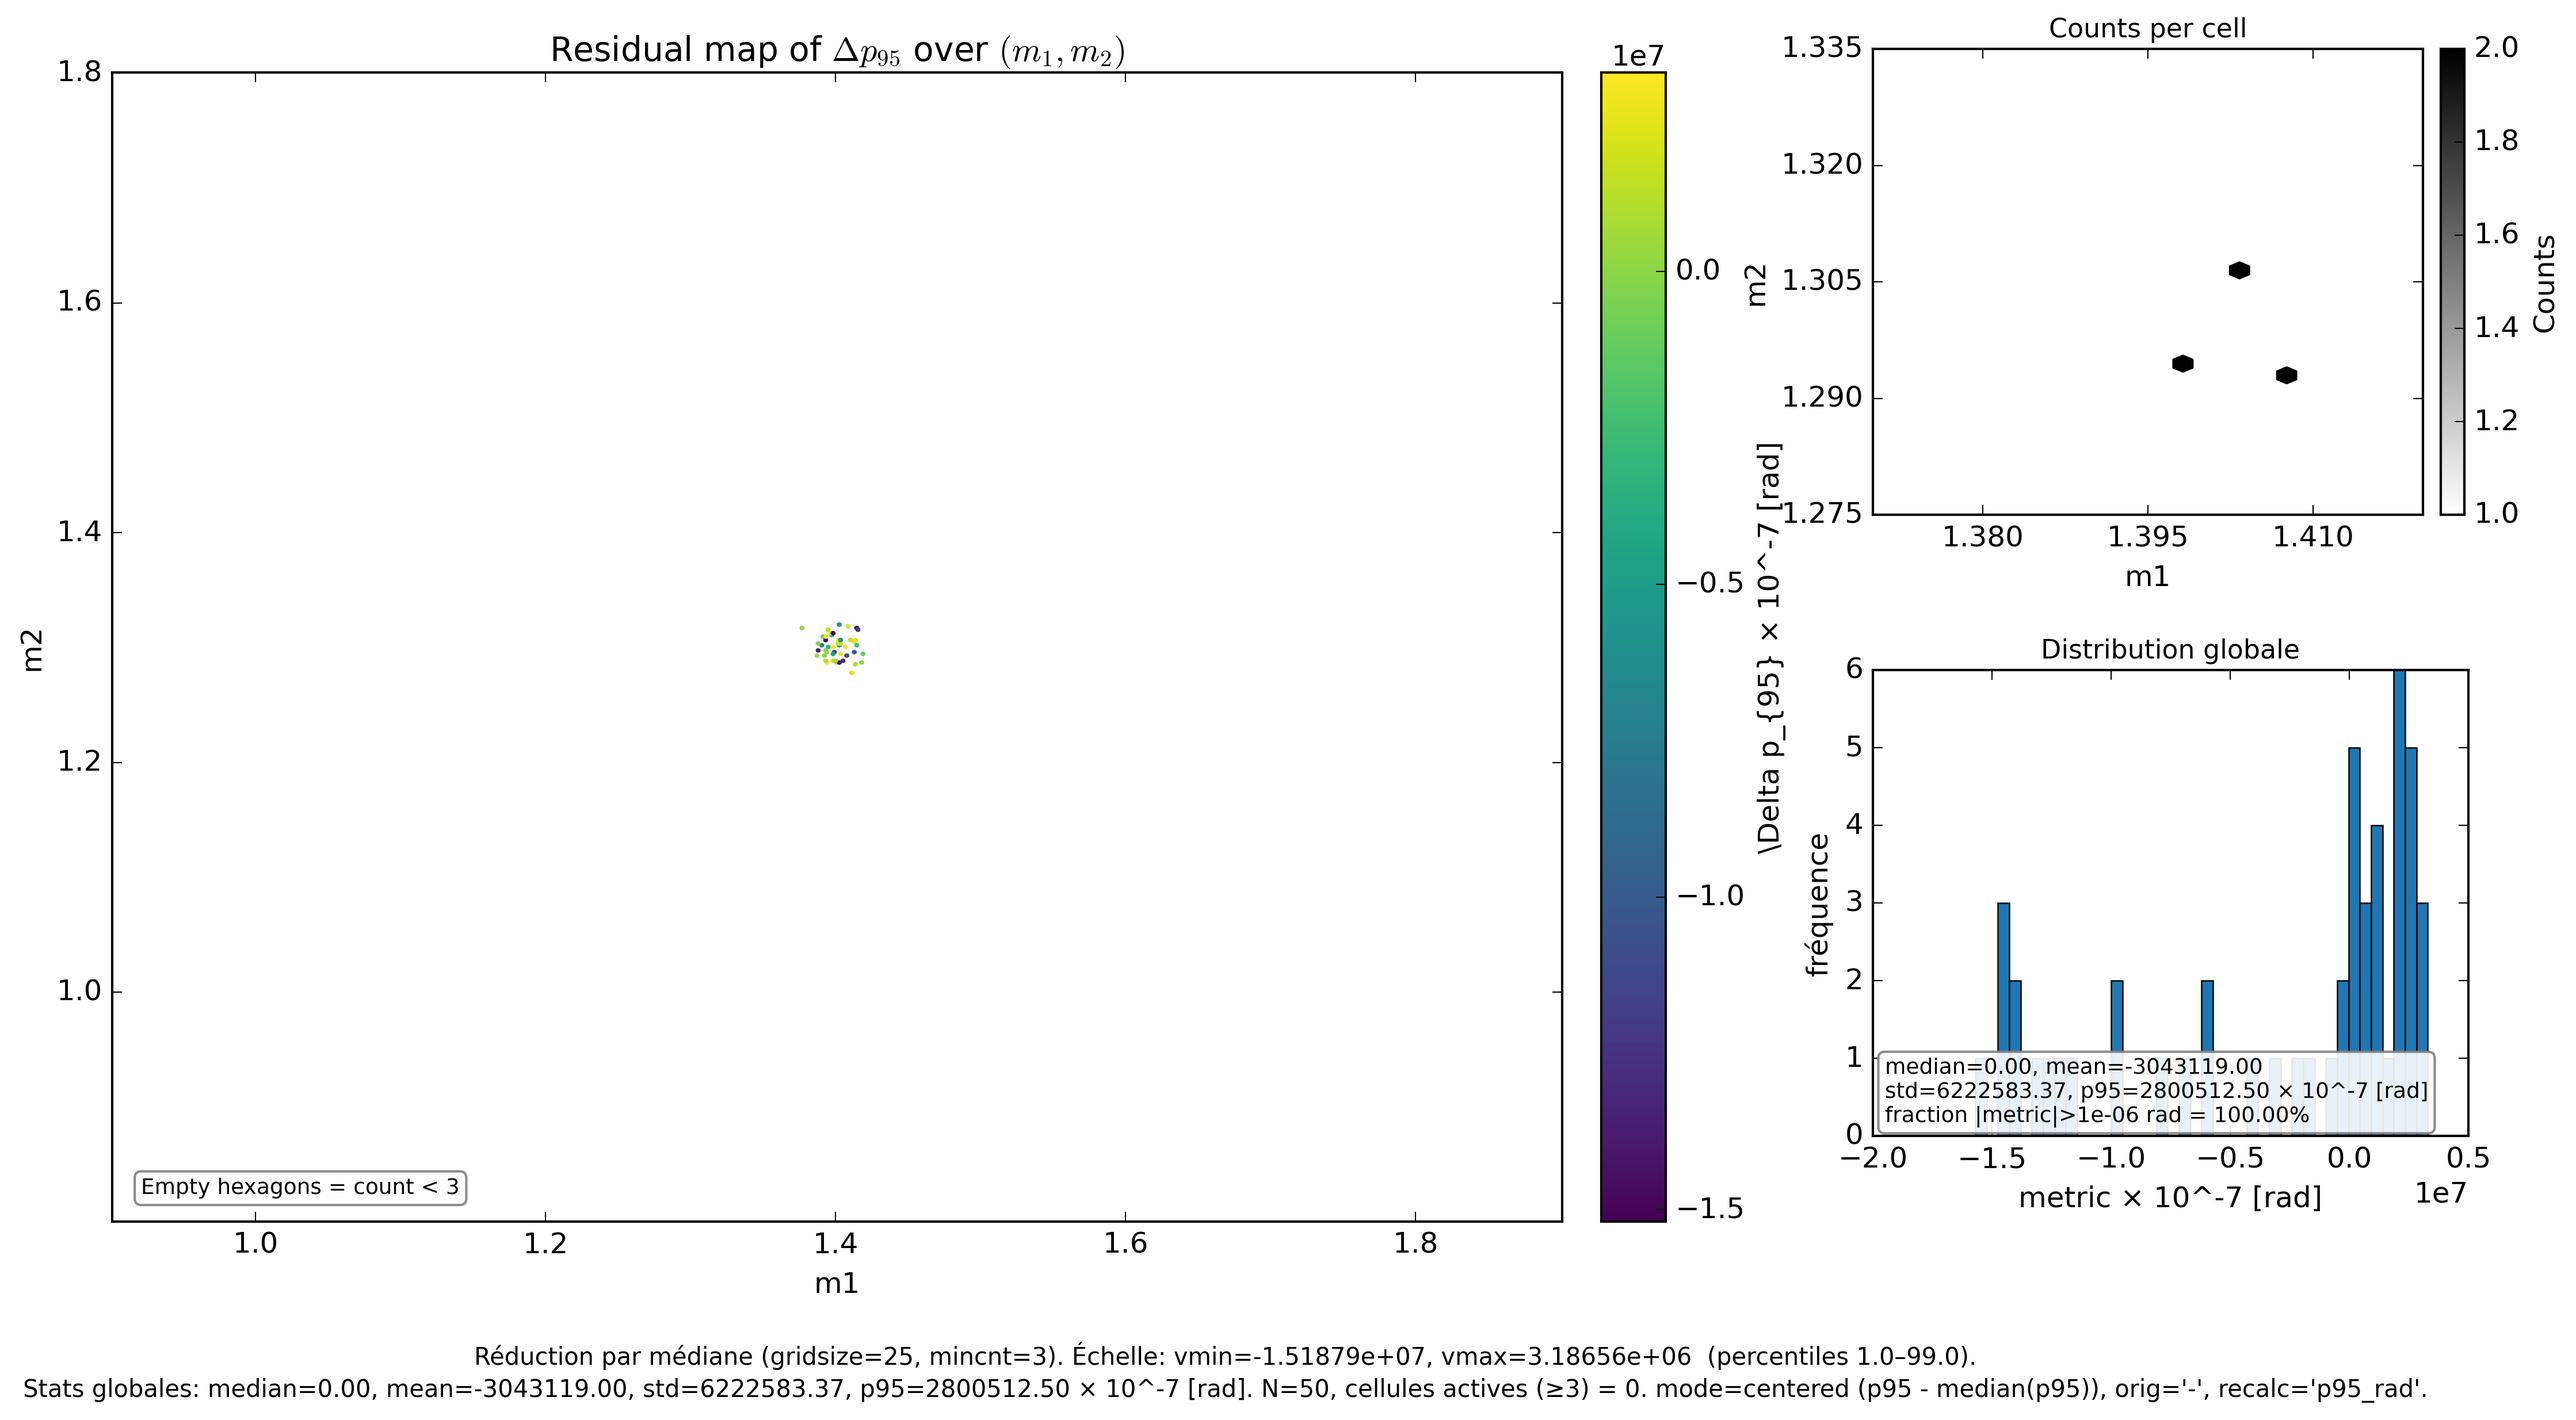
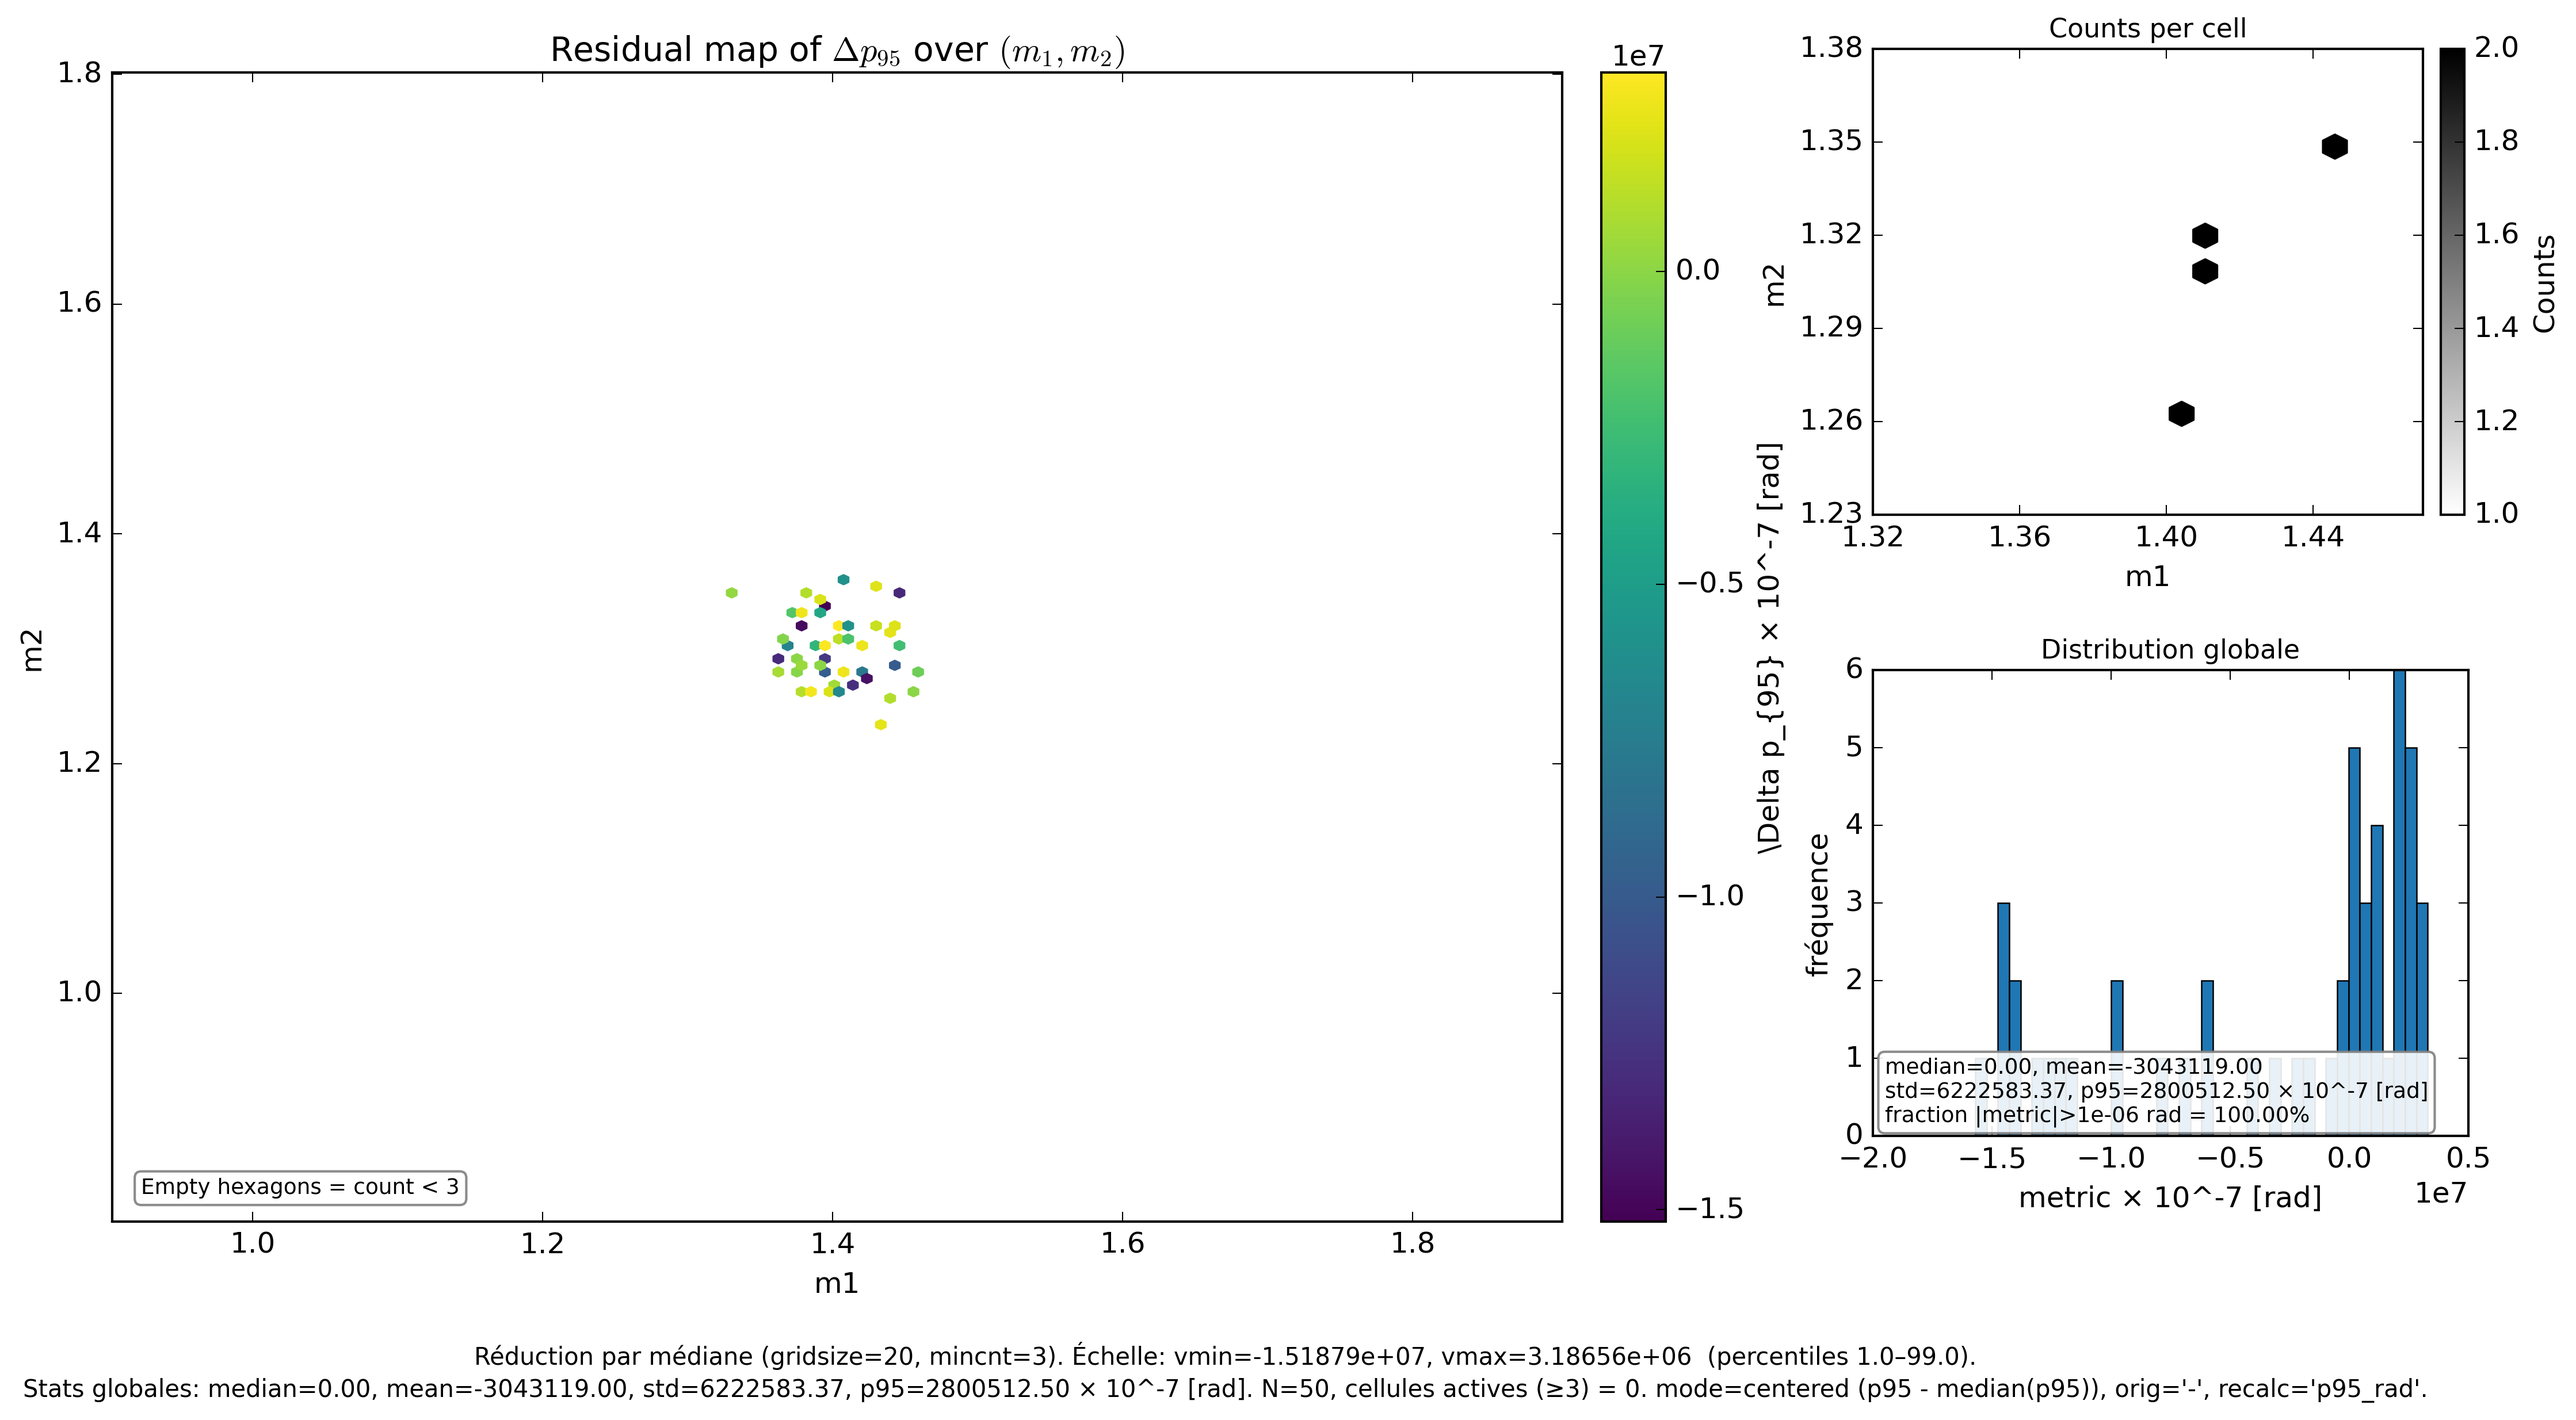
fix(viz): final legend cleanup for 01/03 and increased jitter dispersion for 06

diff --git a/zz-scripts/chapter10/10_fig_03_convergence.py b/zz-scripts/chapter10/10_fig_03_convergence.py
@@ -203,19 +203,6 @@ def main():
     ax.set_ylabel(f"Estimator of {p95_col} [rad]")
     ax.set_title(f"Convergence of {p95_col} estimation", fontsize=15)
 
-    # Légendes séparées : courbes à gauche, stats à droite
-    # Légende des courbes (IC + estimateurs)
-    curve_handles = [ci_handle, mean_line, median_line, tmean_line, ref_line]
-    curve_labels = [
-        "95% CI (bootstrap, mean)",
-        "Estimator (mean)",
-        "Estimator (median)",
-        f"Estimator (trimmed mean, α={args.trim:.2f})",
-        f"Estimate at N={M} (mean ref)",
-    ]
-    leg_curves = ax.legend(curve_handles, curve_labels, loc="lower left", frameon=True, fontsize=10)
-    leg_curves.set_zorder(5)
-
     # Bloc d'info (statistiques finales)
     stats_lines = [
         f"N = {M}",
@@ -233,7 +220,6 @@ def main():
         fontsize=10,
     )
     leg_stats.set_zorder(5)
-    ax.add_artist(leg_curves)
 
     # ----- Inset (zoom) : même logique que ta version -----
     base_w, base_h = args.zoom_w, args.zoom_h

diff --git a/zz-scripts/chapter10/10_fig_06_residual_map.py b/zz-scripts/chapter10/10_fig_06_residual_map.py
@@ -275,7 +275,7 @@ def main() -> None:
     ap.add_argument(
         "--gridsize",
         type=int,
-        default=25,
+        default=20,
         help="Taille de la grille hexbin.",
     )
     ap.add_argument(
@@ -351,9 +351,9 @@ def main() -> None:
     N = len(df)
     rng = np.random.default_rng(0)
     if np.std(x) < 1e-4:
-        x = x + rng.normal(0, 0.01, size=len(x))
+        x = x + rng.normal(0, 0.03, size=len(x))
     if np.std(y) < 1e-4:
-        y = y + rng.normal(0, 0.01, size=len(y))
+        y = y + rng.normal(0, 0.03, size=len(y))
 
     # ---------------------------------------------------------------- metric
     if args.metric == "dp95":
@@ -462,7 +462,7 @@ def main() -> None:
     hb_counts = ax_cnt.hexbin(
         x,
         y,
-        gridsize=25,
+        gridsize=args.gridsize,
         cmap="gray_r",
         mincnt=1,
     )

diff --git a/zz-scripts/chapter10/10_fig_01_iso_p95_maps.py b/zz-scripts/chapter10/10_fig_01_iso_p95_maps.py
@@ -364,9 +364,6 @@ def main() -> None:
     ax.set_ylim(y_lo, y_hi)
     print(f"[DEBUG] fig01 x_lim=({x_lo:.4g},{x_hi:.4g}), y_lim=({y_lo:.4g},{y_hi:.4g})")
 
-    leg = ax.legend(loc="upper right", frameon=True, fontsize=9)
-    leg.set_zorder(20)
-
     with warnings.catch_warnings():
         warnings.simplefilter("ignore")
         plt.tight_layout()
